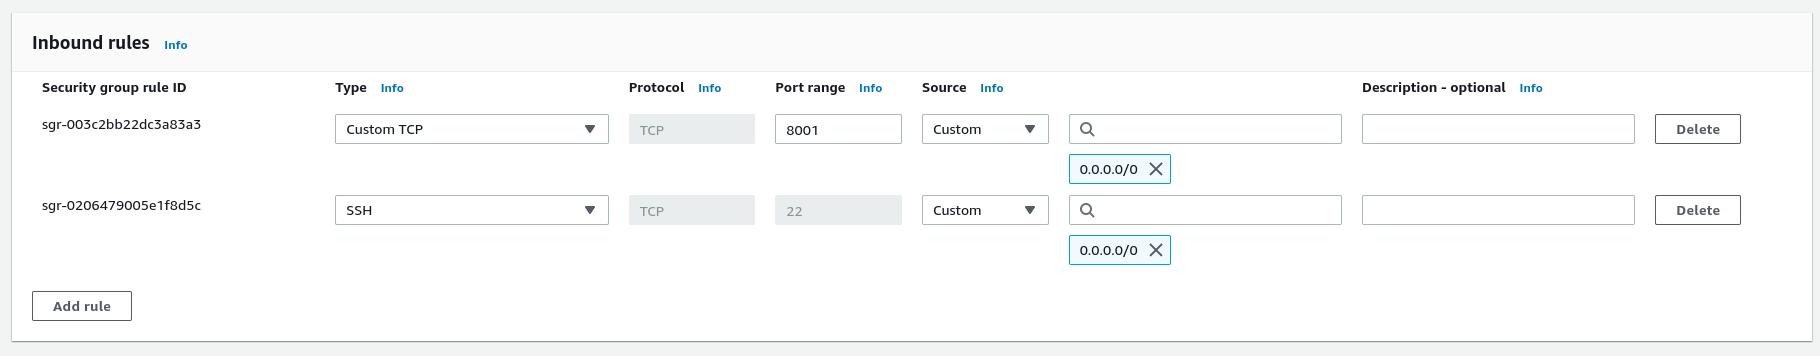
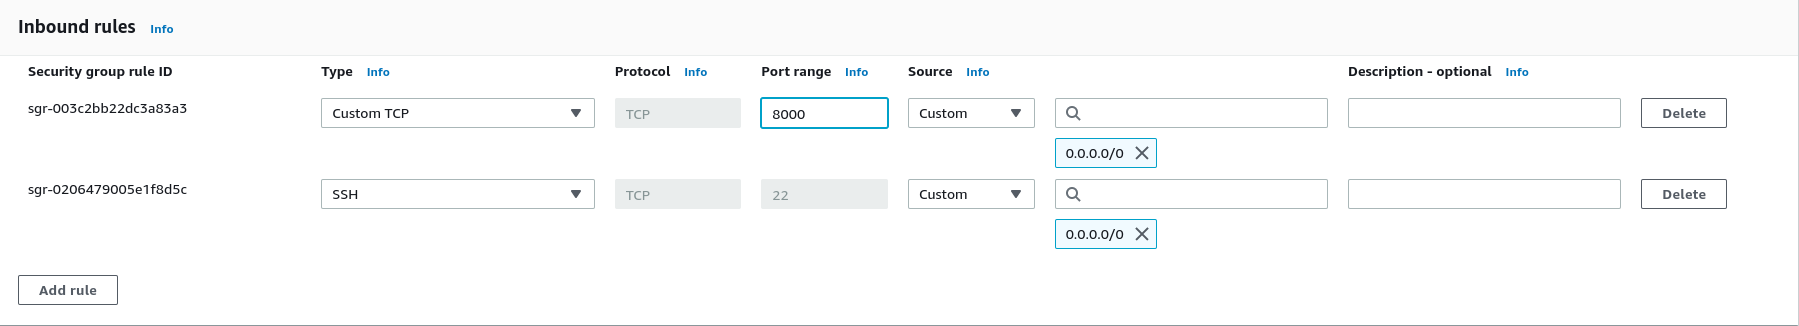
EC2 SETUP

diff --git a/README.md b/README.md
@@ -83,4 +83,37 @@ Now we will modify `settings.py` file so that all IPs are allowed. For that run 
 
 By now we have succesfully set up our project on EC2 Instance.
 
+## 3. Set up Docker
+
+- Install Docker by running the following command
+```
+sudo apt install docker.io
+```
+- After the Docker is succesfully installed we will use Dockerfile to create a docker image and run the app as a docker container.
+
+- Dockerfile is already created, you can view it by running the following command
+```
+vi Dockerfile
+```
+![dockerfile](img/6.png)
+
+- Build the docker image by running the following command
+```
+sudo docker build -t authentication-app .
+```
+
+- Run `sudo docker images` after the build is completed to check the built image.
+
+![docker_images](img/7.png)
+
+- Now run the following command to run the docker container
+```
+sudo docker run -p 8000:8000 authentication-app
+```
+
+- Now go to your EC2 instance and copy public IP address. Go open your browser and go to `<Public-IP>:8000`. Replace `<PublicIP>` with the IP address of your instance. For example it is `18.139.163.5:8000`. 
+
+![docker_images](img/8.png)
+
+By now we have built docker image and run our containerized app on EC2 instance. In the next part we will set up CI-CD pipeline for our project using Jenkins.
 
